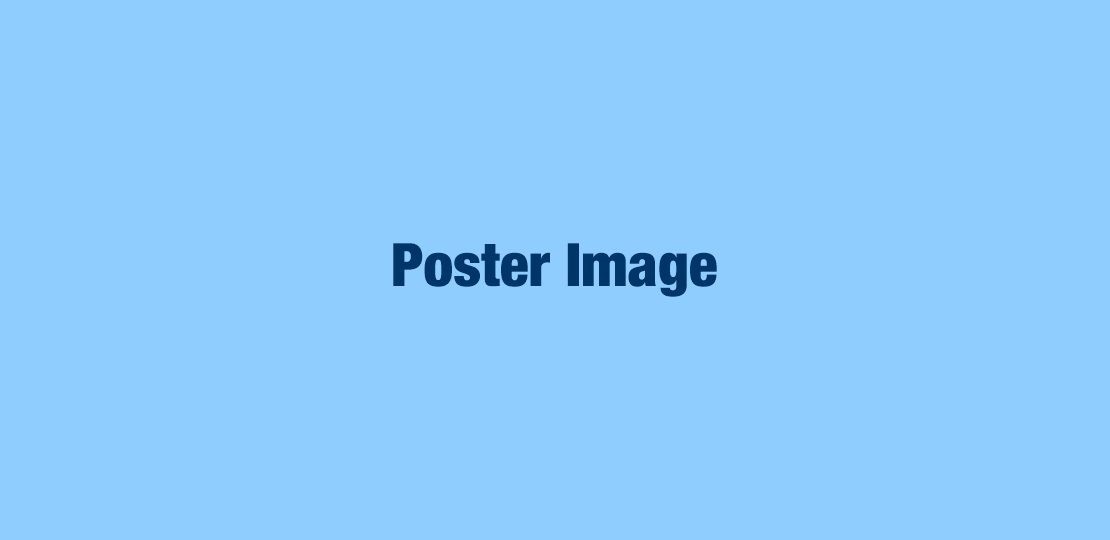
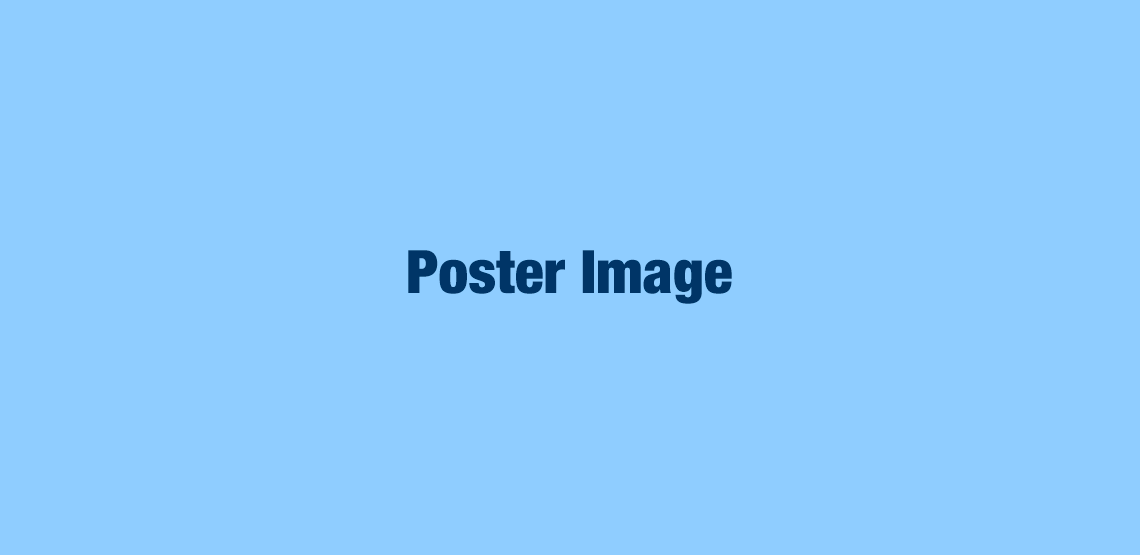
small layout changes

Changed region(s): [[0.3369, 0.4444, 0.4901, 0.5333], [0.5207, 0.4741, 0.6432, 0.563]]

diff --git a/entry.html b/entry.html
@@ -45,7 +45,7 @@
     <meta name="twitter:image:alt" content="" />
 
 
-    <!-- JSON Structured data -->
+    <!-- JSON Structured data: Webpage -->
     <script type="application/ld+json">
     {
         "@context": "http://schema.org",
@@ -75,9 +75,9 @@
         "url": "url",
         "mainEntityOfPage": "url",
         "headline": "Project Entry Title",
-        "datePublished": "",
-        "dateModified": "",
-        "dateCreated": "",
+        "datePublished": "CCYY-MM-DD",
+        "dateModified": "CCYY-MM-DD",
+        "dateCreated": "CCYY-MM-DD",
         "author": "Center for Teaching and Learning at Columbia University",
         "publisher": {
             "@type": "EducationalOrganization",
@@ -104,14 +104,14 @@
 
 </head>
 
-<body style="background-color: #efefef;">
+<body>
     
     <a id="skippy" class="sr-only sr-only-focusable" href="#maincontent">
 Skip to main content
     </a>
 
     <aside class="navbar navbar-expand navbar-dark bg-primary flex-column flex-md-row d-print-none" id="top-institution">
-        <div class="container">
+        <div class="container-fluid">
             <ul class="navbar-univ navbar-nav flex-row">
                 <li class="nav-item">
                     <a class="nav-link" href="https://www.columbia.edu" target="_blank">COLUMBIA UNIVERSITY <span class="d-none d-sm-inline">IN THE CITY OF NEW YORK</span></a>
@@ -147,7 +147,7 @@ Skip to main content
         </div>
     </aside>
 
-    <header class="container bg-white d-print-none" id="header-portfolio">
+    <header class="container bg-white px-0 d-print-none" id="header-portfolio">
         <div class="logo-project py-3 d-flex flex-row">
             <img src="img/ctl-avatar.svg" style="height: 70px;" class="d-block" />
             <h1><a href="index.html">STUFF WE MAKE</a></h1>
@@ -169,16 +169,16 @@ Skip to main content
         </nav>
     </header>
     
-    <main class="container bg-white">
+    <main class="container bg-white px-0">
         <article class="hentry">
             <header class="entry-header">
-                <figure class="entry-poster mb-0 border">
-                    <img src="img/poster-mediathread.jpg" class="img-fluid" alt="" />
+                <figure class="entry-poster mb-0">
+                    <img src="img/poster.png" class="img-fluid" alt="" />
                 </figure>
             </header>
             <div class="row" style="margin-top: -4rem;">
                 <div class="col-12 col-sm-10 offset-sm-1 bg-white">
-                <h1 class="bg-white text-center py-2 border border-bottom-0" style="margin: 0 -15px;" id="maincontent">Project Entry Title</h1>
+                <h1 class="bg-white text-center py-2" style="margin: 0 -15px;" id="maincontent">Project Entry Title</h1>
                 
                 <section class="project-info text-muted border-top border-bottom mb-5">
                     <dl class="row m-0">
@@ -212,7 +212,7 @@ Skip to main content
         </article>
     </main>
 
-    <footer class="container text-white p-5" style="background-color: #000">
+    <footer class="container-fluid text-white p-5 mt-5" style="background-color: #000">
         <div class="d-none d-print-block">
         <div class="row" aria-hidden="true" role="presentation">
             <div class="col">
@@ -226,7 +226,7 @@ Skip to main content
             </div>
         </div>
         </div>
-        <div class="row">
+        <div class="row container m-auto">
             <div class="col-lg d-print-none">
                 <div class="footer-logo d-inline-block mb-4" style="height: 40px">
                     <a href="https://ctl.columbia.edu" target="_blank">

diff --git a/index.html b/index.html
@@ -73,14 +73,14 @@
 
 </head>
 
-<body style="background-color: #efefef;">
+<body>
     
     <a id="skippy" class="sr-only sr-only-focusable" href="#maincontent">
 Skip to main content
     </a>
 
     <aside class="navbar navbar-expand navbar-dark bg-primary flex-column flex-md-row d-print-none" id="top-institution">
-        <div class="container">
+        <div class="container-fluid">
             <ul class="navbar-univ navbar-nav flex-row">
                 <li class="nav-item">
                     <a class="nav-link" href="https://www.columbia.edu" target="_blank">COLUMBIA UNIVERSITY <span class="d-none d-sm-inline">IN THE CITY OF NEW YORK</span></a>
@@ -116,7 +116,7 @@ Skip to main content
         </div>
     </aside>
 
-    <header class="container bg-white" id="header-portfolio">
+    <header class="container bg-white px-0 d-print-none" id="header-portfolio">
         <div class="logo-project py-3 d-flex flex-row">
             <img src="img/ctl-avatar.svg" style="height: 70px;" class="d-block" />
             <h1><a href="index.html">STUFF WE MAKE</a></h1>
@@ -138,7 +138,7 @@ Skip to main content
         </nav>
     </header>
     
-    <main class="container bg-white">
+    <main class="container bg-white px-0">
 
         <section id="portfolio-feature">
             <div id="carouselExampleIndicators" class="carousel slide mb-5" data-ride="carousel" role="presentation" aria-hidden="true">
@@ -198,7 +198,7 @@ Skip to main content
             <div class="row">
                 <div class="col-md-6 col-lg-4">
                     <div class="card mb-4 border-0">
-                        <a href="entry.html" class="card-link"><img class="card-img-top d-block rounded-0" aria-hidden="true" alt="" style="height: 100%; width: 100%;" src="img/thumbnail-mediathread.png"></a>
+                        <a href="entry.html" class="card-link"><img class="card-img-top d-block rounded-0" aria-hidden="true" alt="" style="height: 100%; width: 100%;" src="img/thumbnail.png"></a>
                         <div class="card-body px-0 px-sm-3">
                             <h5 class="card-title"><a href="entry.html" class="card-link">Entry title</a></h5>
                             <p class="card-text">Entry search description</p>
@@ -254,7 +254,7 @@ Skip to main content
         </section>
     </main>
 
-    <footer class="container text-white p-5" style="background-color: #000">
+    <footer class="container-fluid text-white p-5 mt-5" style="background-color: #000">
         <div class="d-none d-print-block">
         <div class="row" aria-hidden="true" role="presentation">
             <div class="col">
@@ -268,7 +268,7 @@ Skip to main content
             </div>
         </div>
         </div>
-        <div class="row">
+        <div class="row container m-auto">
             <div class="col-lg d-print-none">
                 <div class="footer-logo d-inline-block mb-4" style="height: 40px">
                     <a href="https://ctl.columbia.edu" target="_blank">

diff --git a/visual_index.html b/visual_index.html
@@ -73,14 +73,14 @@
 
 </head>
 
-<body style="background-color: #efefef;">
+<body>
     
     <a id="skippy" class="sr-only sr-only-focusable" href="#maincontent">
 Skip to main content
     </a>
 
     <aside class="navbar navbar-expand navbar-dark bg-primary flex-column flex-md-row d-print-none" id="top-institution">
-        <div class="container">
+        <div class="container-fluid">
             <ul class="navbar-univ navbar-nav flex-row">
                 <li class="nav-item">
                     <a class="nav-link" href="https://www.columbia.edu" target="_blank">COLUMBIA UNIVERSITY <span class="d-none d-sm-inline">IN THE CITY OF NEW YORK</span></a>
@@ -116,7 +116,7 @@ Skip to main content
         </div>
     </aside>
 
-    <header class="container bg-white" id="header-portfolio">
+    <header class="container bg-white px-0" id="header-portfolio">
         <div class="logo-project py-3 d-flex flex-row">
             <img src="img/ctl-avatar.svg" style="height: 70px;" class="d-block" />
             <h1><a href="index.html">STUFF WE MAKE</a></h1>
@@ -138,7 +138,7 @@ Skip to main content
         </nav>
     </header>
     
-    <main class="container bg-white">
+    <main class="container bg-white px-0">
         <h1>Our work</h1>
 
         <div class="d-flex">
@@ -289,7 +289,7 @@ Skip to main content
     </main>
 
 
-    <footer class="container text-white p-5" style="background-color: #000">
+    <footer class="container-fluid text-white p-5 mt-5" style="background-color: #000">
         <div class="d-none d-print-block">
         <div class="row" aria-hidden="true" role="presentation">
             <div class="col">
@@ -303,7 +303,7 @@ Skip to main content
             </div>
         </div>
         </div>
-        <div class="row">
+        <div class="row container m-auto">
             <div class="col-lg d-print-none">
                 <div class="footer-logo d-inline-block mb-4" style="height: 40px">
                     <a href="https://ctl.columbia.edu" target="_blank">
